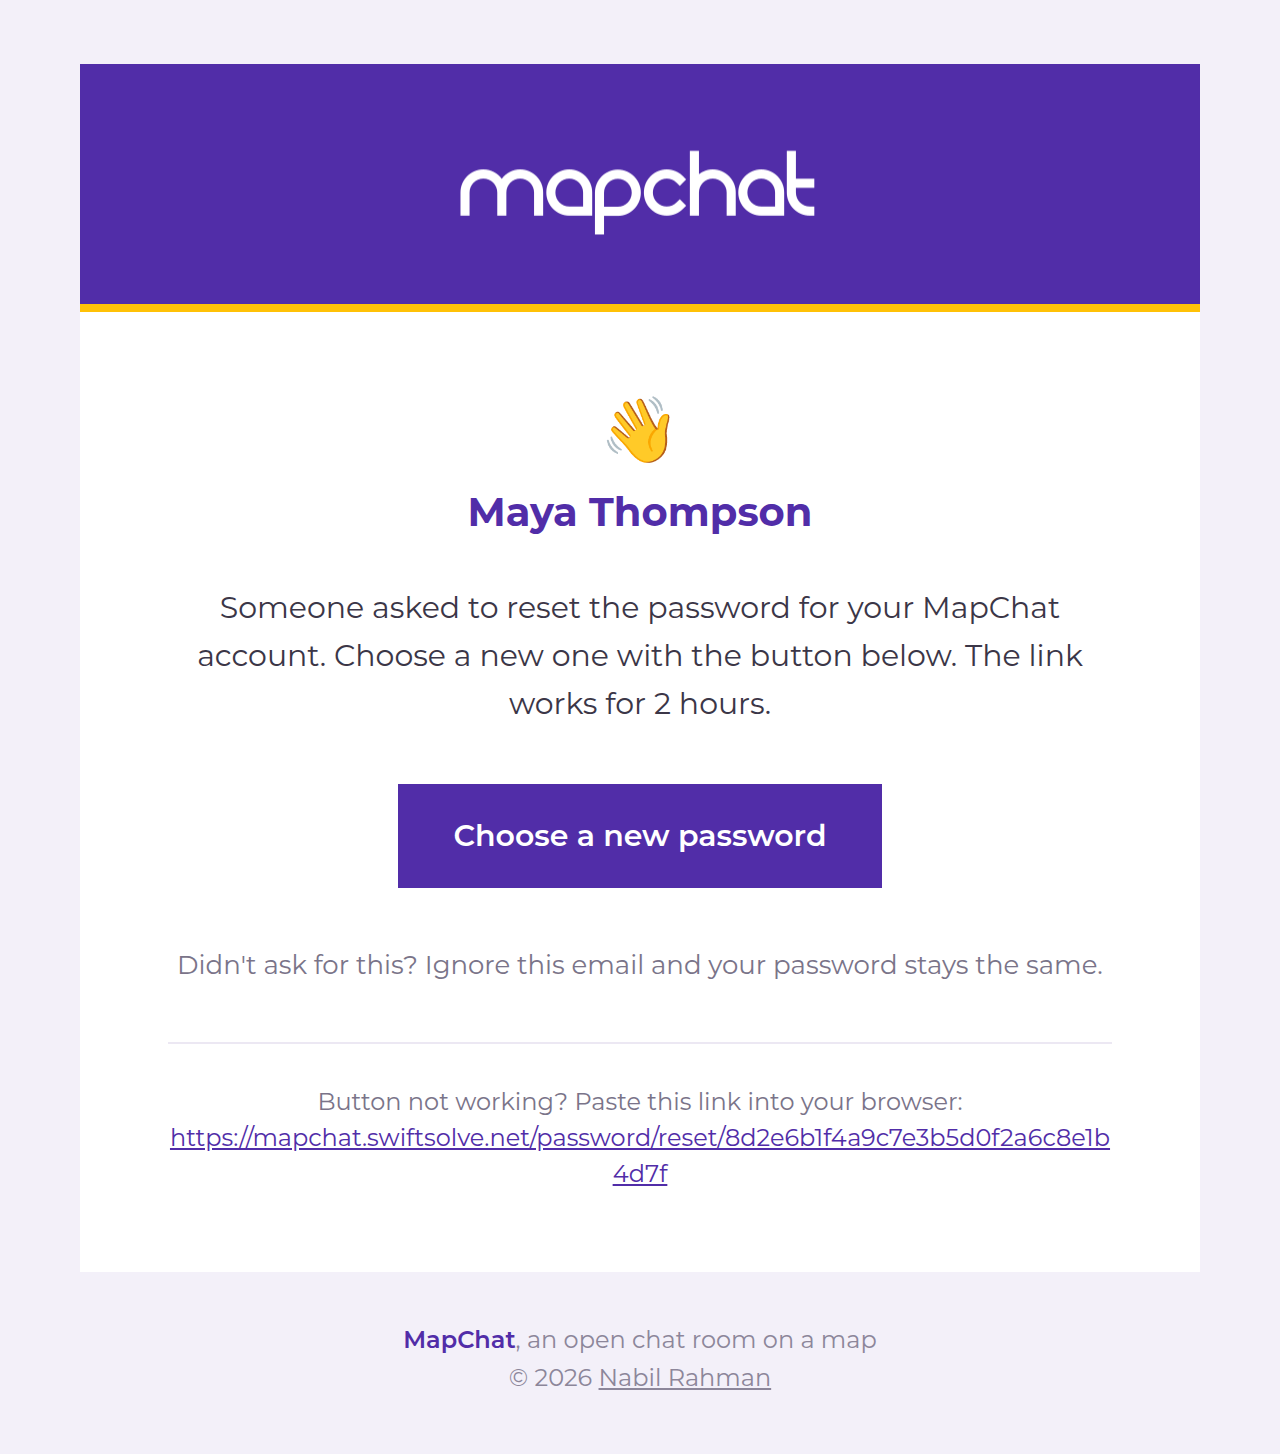
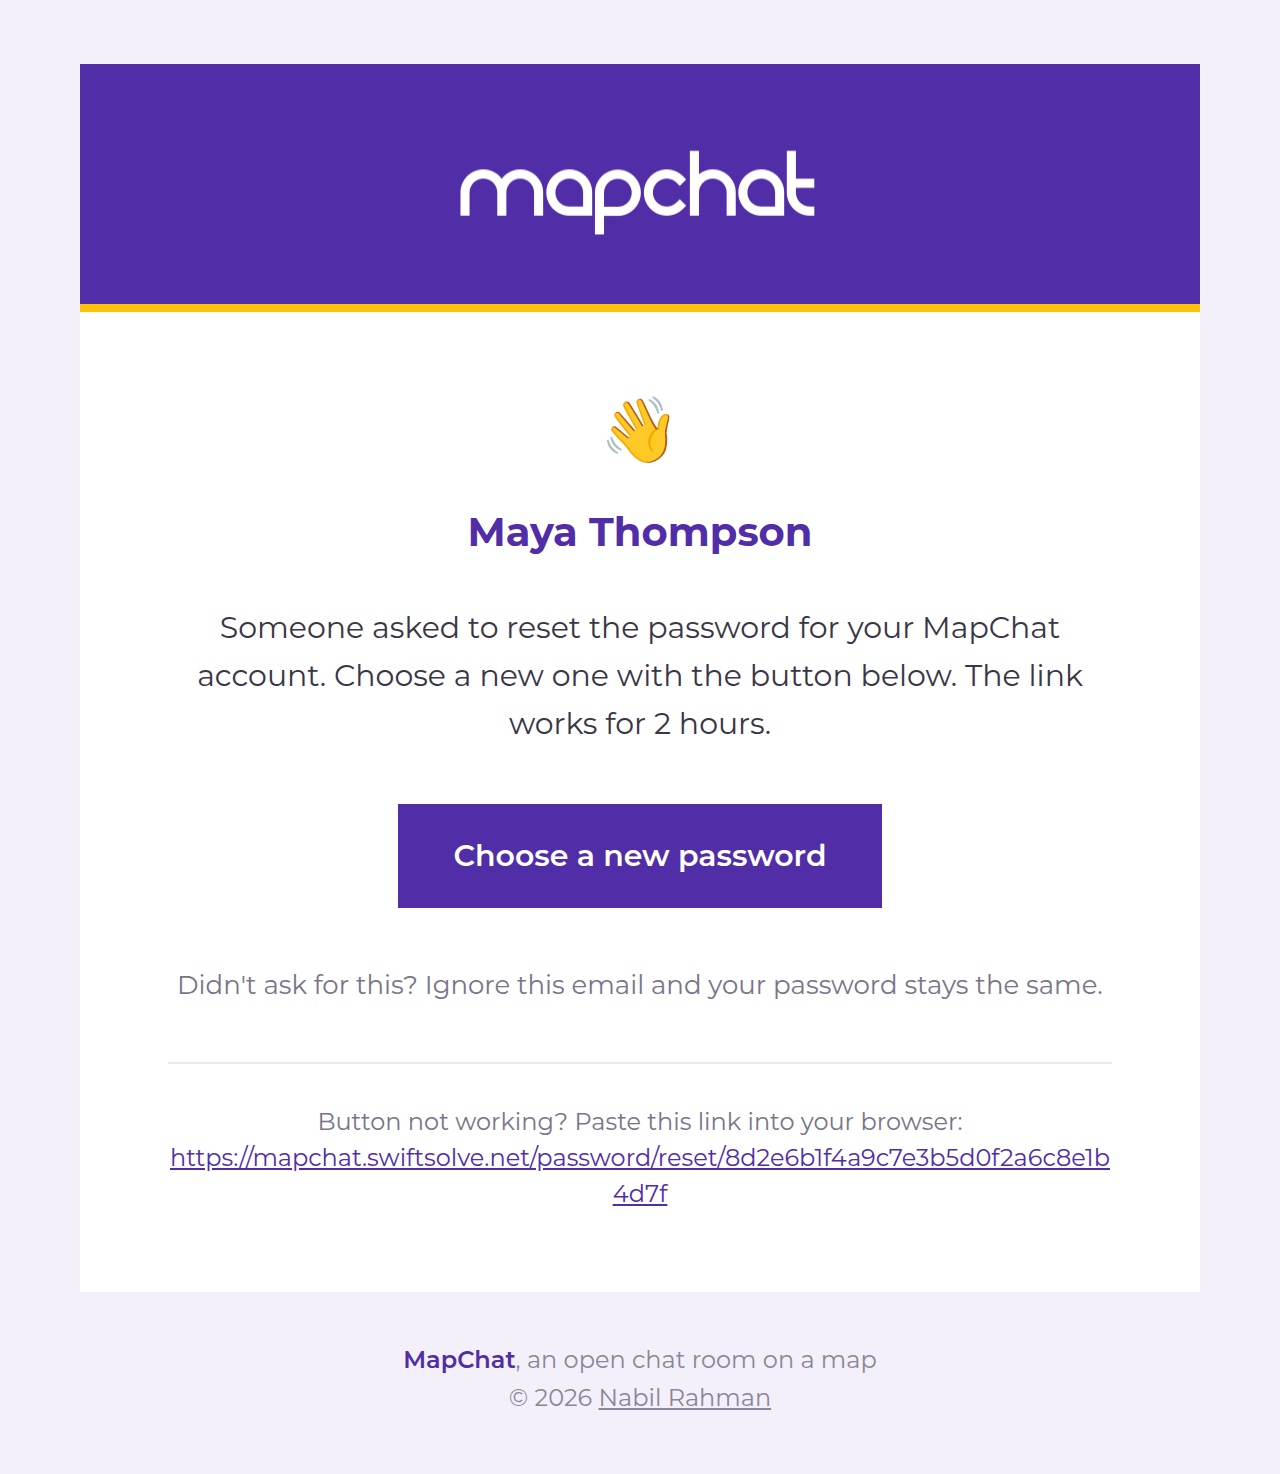
More space below the wave

diff --git a/App/Views/Password/reset_email.html b/App/Views/Password/reset_email.html
@@ -5,7 +5,7 @@
 {% block preheader %}This link works for the next 2 hours.{% endblock %}
 
 {% block body %}
-<p style="margin: 0 0 6px; font-size: 32px; line-height: 1.2;" aria-label="Hi">👋</p>
+<p style="margin: 0 0 16px; font-size: 32px; line-height: 1.2;" aria-label="Hi">👋</p>
 <p style="margin: 0 0 20px;"><strong style="color: #512da8; font-size: 20px;">{{ name }}</strong></p>
 <p style="margin: 0;">Someone asked to reset the password for your MapChat account. Choose a new one with the button below. The link works for 2 hours.</p>
 

diff --git a/App/Views/Signup/activation_email.html b/App/Views/Signup/activation_email.html
@@ -5,7 +5,7 @@
 {% block preheader %}One click and you're in the room.{% endblock %}
 
 {% block body %}
-<p style="margin: 0 0 6px; font-size: 32px; line-height: 1.2;" aria-label="Hi">👋</p>
+<p style="margin: 0 0 16px; font-size: 32px; line-height: 1.2;" aria-label="Hi">👋</p>
 <p style="margin: 0 0 20px;"><strong style="color: #512da8; font-size: 20px;">{{ name }}</strong></p>
 <p style="margin: 0;">Thanks for signing up. Activate your account to start chatting and to put your city on the map.</p>
 
